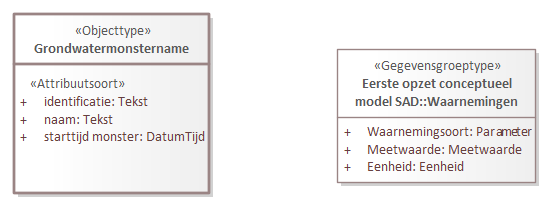
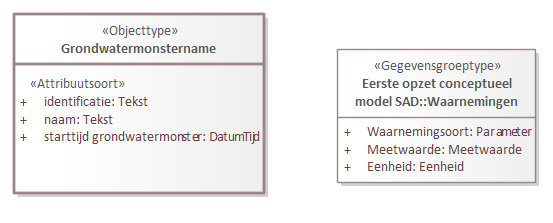
Conceptualmodel-MilieuhygienischbodemonderzoekSAD-0.2-1-20230126-20230412-171537

Changed region(s): [[0.0615, 0.0538, 0.4919, 0.8879]]

diff --git a/data/SAD-cat.msword.html b/data/SAD-cat.msword.html
@@ -15,7 +15,7 @@
    <body>
       <p>Conceptual model/Milieuhygienisch bodemonderzoek SAD/20230126</p>
       <p>Imvertor: 2.0.0</p>
-      <p>Model release: Conceptualmodel-MilieuhygienischbodemonderzoekSAD-0.2-1-20230126-20230412-170643</p>
+      <p>Model release: Conceptualmodel-MilieuhygienischbodemonderzoekSAD-0.2-1-20230126-20230412-171537</p>
       <hr>
       <section>
          <h1>Artikel 1 Definitie van registratieobject, entiteiten en attributen</h1>
@@ -65,7 +65,7 @@
          <section>
             <h2>Het domeinmodel</h2>
             <section id="">
-               <div class="imageinfo overview"><img src="Images/EAID_FABA90F8_223C_433d_BAE3_74F87B3DC220.png" usemap="#imagemap-EAID_FABA90F8_223C_433d_BAE3_74F87B3DC220" alt="Diagram &#xA;                        &#xA;                     "><map name="imagemap-EAID_FABA90F8_223C_433d_BAE3_74F87B3DC220"><area shape="rect" alt="Boorprofiel" coords="685,1317,995,1437" href="#graph_EAID_6CF3D55E_1BD5_4108_BEA5_8B69EB2D2097"><area shape="rect" alt="Boorbeschrijving" coords="701,1101,977,1210" href="#graph_EAID_080E44E6_527C_42db_BCF3_7400257377C2"><area shape="rect" alt="Veldmeting" coords="1752,1239,1960,1378" href="#graph_EAID_C348E314_A61B_43a0_AFED_083DA812EC5F"><area shape="rect" alt="Veldwaarneming" coords="1752,1032,2005,1176" href="#graph_EAID_A3A8A9F5_B12D_47e9_9D67_F12687999F0D"><area shape="rect" alt="Mengmonsteranalyse" coords="10,811,166,932" href="#graph_EAID_E7A3C99D_3348_4875_9BD5_4E0481E72C54"><area shape="rect" alt="Grondwatermonstername" coords="1320,1101,1517,1239" href="#graph_EAID_24B6DB20_4EA3_453f_B195_E642F22CC27C"><area shape="rect" alt="Grondmonstername" coords="291,775,549,967" href="#graph_EAID_8A8D6A0E_DAF9_415a_9AE7_09155A2C5869"><area shape="rect" alt="Peilbuis" coords="1217,774,1620,972" href="#graph_EAID_0075B243_E663_4ee7_9154_9D5DE12CCB21"><area shape="rect" alt="Bodemlaag" coords="692,1543,987,1777" href="#graph_EAID_88CF9E45_3E0E_40da_96C1_2CDD80B69F6F"><area shape="rect" alt="Boring" coords="637,746,1040,998" href="#graph_EAID_40FFF5B9_99C5_4c21_9D72_A3D1DD3C857F"><area shape="rect" alt="Registratieobject" coords="681,7,989,181" href="#graph_EAID_67DBE718_38E0_4ead_8649_72EA0B4A2355"><area shape="rect" alt="Bodemonderzoek" coords="650,261,1021,600" href="#graph_EAID_ABAADB49_C747_4775_A739_CC832CAD59F1"></map><p><b>Domeinmodel milieuhygienisch bodemonderzoek</b></p>
+               <div class="imageinfo overview"><img src="Images/EAID_FABA90F8_223C_433d_BAE3_74F87B3DC220.png" usemap="#imagemap-EAID_FABA90F8_223C_433d_BAE3_74F87B3DC220" alt="Diagram &#xA;                        &#xA;                     "><map name="imagemap-EAID_FABA90F8_223C_433d_BAE3_74F87B3DC220"><area shape="rect" alt="Boorprofiel" coords="685,1317,995,1437" href="#graph_EAID_6CF3D55E_1BD5_4108_BEA5_8B69EB2D2097"><area shape="rect" alt="Boorbeschrijving" coords="701,1101,977,1210" href="#graph_EAID_080E44E6_527C_42db_BCF3_7400257377C2"><area shape="rect" alt="Veldmeting" coords="1752,1239,1960,1378" href="#graph_EAID_C348E314_A61B_43a0_AFED_083DA812EC5F"><area shape="rect" alt="Veldwaarneming" coords="1752,1032,2005,1176" href="#graph_EAID_A3A8A9F5_B12D_47e9_9D67_F12687999F0D"><area shape="rect" alt="Mengmonsteranalyse" coords="10,811,166,932" href="#graph_EAID_E7A3C99D_3348_4875_9BD5_4E0481E72C54"><area shape="rect" alt="Grondwatermonstername" coords="1292,1103,1543,1240" href="#graph_EAID_24B6DB20_4EA3_453f_B195_E642F22CC27C"><area shape="rect" alt="Grondmonstername" coords="291,775,549,967" href="#graph_EAID_8A8D6A0E_DAF9_415a_9AE7_09155A2C5869"><area shape="rect" alt="Peilbuis" coords="1217,774,1620,972" href="#graph_EAID_0075B243_E663_4ee7_9154_9D5DE12CCB21"><area shape="rect" alt="Bodemlaag" coords="692,1543,987,1777" href="#graph_EAID_88CF9E45_3E0E_40da_96C1_2CDD80B69F6F"><area shape="rect" alt="Boring" coords="637,746,1040,998" href="#graph_EAID_40FFF5B9_99C5_4c21_9D72_A3D1DD3C857F"><area shape="rect" alt="Registratieobject" coords="681,7,989,181" href="#graph_EAID_67DBE718_38E0_4ead_8649_72EA0B4A2355"><area shape="rect" alt="Bodemonderzoek" coords="650,261,1021,600" href="#graph_EAID_ABAADB49_C747_4775_A739_CC832CAD59F1"></map><p><b>Domeinmodel milieuhygienisch bodemonderzoek</b></p>
                </div>
             </section>
          </section>
@@ -4012,7 +4012,7 @@
                   </section>
                </section><a class="anchor" id="graph_EAID_24B6DB20_4EA3_453f_B195_E642F22CC27C"></a><a class="anchor" id="global_class_Model_Grondwatermonstername"></a><section id="global_class_Model_Grondwatermonstername">
                   <h3>   Grondwatermonstername</h3>
-                  <div class="imageinfo "><img src="Images/EAID_789452DC_4BCE_4b65_8B62_328A8173128A.png" usemap="#imagemap-EAID_789452DC_4BCE_4b65_8B62_328A8173128A" alt="Diagram "><map name="imagemap-EAID_789452DC_4BCE_4b65_8B62_328A8173128A"><area shape="rect" alt="Grondwatermonstername" coords="14,14,210,194" href="#graph_EAID_24B6DB20_4EA3_453f_B195_E642F22CC27C"></map><p><b></b></p>
+                  <div class="imageinfo "><img src="Images/EAID_789452DC_4BCE_4b65_8B62_328A8173128A.png" usemap="#imagemap-EAID_789452DC_4BCE_4b65_8B62_328A8173128A" alt="Diagram "><map name="imagemap-EAID_789452DC_4BCE_4b65_8B62_328A8173128A"><area shape="rect" alt="Grondwatermonstername" coords="14,14,265,194" href="#graph_EAID_24B6DB20_4EA3_453f_B195_E642F22CC27C"></map><p><b></b></p>
                   </div>
                   <table style="width: 100%;">
                      <colgroup style="width: 30%;"></colgroup>
@@ -4112,8 +4112,8 @@
                            </tr>
                         </tbody>
                      </table>
-                     </section><a class="anchor" id="detail_attribute_Model_Grondwatermonstername_starttijdmonster"></a><section id="detail_attribute_Model_Grondwatermonstername_starttijdmonster">
-                     <h4>  starttijd monster</h4>
+                     </section><a class="anchor" id="detail_attribute_Model_Grondwatermonstername_starttijdgrondwatermonster"></a><section id="detail_attribute_Model_Grondwatermonstername_starttijdgrondwatermonster">
+                     <h4>  starttijd grondwatermonster</h4>
                      
                      <table style="width: 100%;">
                         <colgroup style="width: 30%;"></colgroup>

diff --git a/data/SAD-cat.respec.html b/data/SAD-cat.respec.html
@@ -43,7 +43,7 @@
       </section>
    <section id="">
       <h2>Het domeinmodel   </h2>
-      <div class="imageinfo overview"><img src="data/Images/EAID_FABA90F8_223C_433d_BAE3_74F87B3DC220.png" usemap="#imagemap-EAID_FABA90F8_223C_433d_BAE3_74F87B3DC220" alt="Diagram &#xA;                        &#xA;                     "><map name="imagemap-EAID_FABA90F8_223C_433d_BAE3_74F87B3DC220"><area shape="rect" alt="Boorprofiel" coords="685,1317,995,1437" href="#graph_EAID_6CF3D55E_1BD5_4108_BEA5_8B69EB2D2097"><area shape="rect" alt="Boorbeschrijving" coords="701,1101,977,1210" href="#graph_EAID_080E44E6_527C_42db_BCF3_7400257377C2"><area shape="rect" alt="Veldmeting" coords="1752,1239,1960,1378" href="#graph_EAID_C348E314_A61B_43a0_AFED_083DA812EC5F"><area shape="rect" alt="Veldwaarneming" coords="1752,1032,2005,1176" href="#graph_EAID_A3A8A9F5_B12D_47e9_9D67_F12687999F0D"><area shape="rect" alt="Mengmonsteranalyse" coords="10,811,166,932" href="#graph_EAID_E7A3C99D_3348_4875_9BD5_4E0481E72C54"><area shape="rect" alt="Grondwatermonstername" coords="1320,1101,1517,1239" href="#graph_EAID_24B6DB20_4EA3_453f_B195_E642F22CC27C"><area shape="rect" alt="Grondmonstername" coords="291,775,549,967" href="#graph_EAID_8A8D6A0E_DAF9_415a_9AE7_09155A2C5869"><area shape="rect" alt="Peilbuis" coords="1217,774,1620,972" href="#graph_EAID_0075B243_E663_4ee7_9154_9D5DE12CCB21"><area shape="rect" alt="Bodemlaag" coords="692,1543,987,1777" href="#graph_EAID_88CF9E45_3E0E_40da_96C1_2CDD80B69F6F"><area shape="rect" alt="Boring" coords="637,746,1040,998" href="#graph_EAID_40FFF5B9_99C5_4c21_9D72_A3D1DD3C857F"><area shape="rect" alt="Registratieobject" coords="681,7,989,181" href="#graph_EAID_67DBE718_38E0_4ead_8649_72EA0B4A2355"><area shape="rect" alt="Bodemonderzoek" coords="650,261,1021,600" href="#graph_EAID_ABAADB49_C747_4775_A739_CC832CAD59F1"></map><p><b>Domeinmodel milieuhygienisch bodemonderzoek</b></p>
+      <div class="imageinfo overview"><img src="data/Images/EAID_FABA90F8_223C_433d_BAE3_74F87B3DC220.png" usemap="#imagemap-EAID_FABA90F8_223C_433d_BAE3_74F87B3DC220" alt="Diagram &#xA;                        &#xA;                     "><map name="imagemap-EAID_FABA90F8_223C_433d_BAE3_74F87B3DC220"><area shape="rect" alt="Boorprofiel" coords="685,1317,995,1437" href="#graph_EAID_6CF3D55E_1BD5_4108_BEA5_8B69EB2D2097"><area shape="rect" alt="Boorbeschrijving" coords="701,1101,977,1210" href="#graph_EAID_080E44E6_527C_42db_BCF3_7400257377C2"><area shape="rect" alt="Veldmeting" coords="1752,1239,1960,1378" href="#graph_EAID_C348E314_A61B_43a0_AFED_083DA812EC5F"><area shape="rect" alt="Veldwaarneming" coords="1752,1032,2005,1176" href="#graph_EAID_A3A8A9F5_B12D_47e9_9D67_F12687999F0D"><area shape="rect" alt="Mengmonsteranalyse" coords="10,811,166,932" href="#graph_EAID_E7A3C99D_3348_4875_9BD5_4E0481E72C54"><area shape="rect" alt="Grondwatermonstername" coords="1292,1103,1543,1240" href="#graph_EAID_24B6DB20_4EA3_453f_B195_E642F22CC27C"><area shape="rect" alt="Grondmonstername" coords="291,775,549,967" href="#graph_EAID_8A8D6A0E_DAF9_415a_9AE7_09155A2C5869"><area shape="rect" alt="Peilbuis" coords="1217,774,1620,972" href="#graph_EAID_0075B243_E663_4ee7_9154_9D5DE12CCB21"><area shape="rect" alt="Bodemlaag" coords="692,1543,987,1777" href="#graph_EAID_88CF9E45_3E0E_40da_96C1_2CDD80B69F6F"><area shape="rect" alt="Boring" coords="637,746,1040,998" href="#graph_EAID_40FFF5B9_99C5_4c21_9D72_A3D1DD3C857F"><area shape="rect" alt="Registratieobject" coords="681,7,989,181" href="#graph_EAID_67DBE718_38E0_4ead_8649_72EA0B4A2355"><area shape="rect" alt="Bodemonderzoek" coords="650,261,1021,600" href="#graph_EAID_ABAADB49_C747_4775_A739_CC832CAD59F1"></map><p><b>Domeinmodel milieuhygienisch bodemonderzoek</b></p>
       </div>
    </section>
    <section id="">
@@ -3988,7 +3988,7 @@
          </section>
       </section><a class="anchor" id="graph_EAID_24B6DB20_4EA3_453f_B195_E642F22CC27C"></a><a class="anchor" id="global_class_Model_Grondwatermonstername"></a><section id="global_class_Model_Grondwatermonstername">
          <h3>   Grondwatermonstername</h3>
-         <div class="imageinfo "><img src="data/Images/EAID_789452DC_4BCE_4b65_8B62_328A8173128A.png" usemap="#imagemap-EAID_789452DC_4BCE_4b65_8B62_328A8173128A" alt="Diagram "><map name="imagemap-EAID_789452DC_4BCE_4b65_8B62_328A8173128A"><area shape="rect" alt="Grondwatermonstername" coords="14,14,210,194" href="#graph_EAID_24B6DB20_4EA3_453f_B195_E642F22CC27C"></map><p><b></b></p>
+         <div class="imageinfo "><img src="data/Images/EAID_789452DC_4BCE_4b65_8B62_328A8173128A.png" usemap="#imagemap-EAID_789452DC_4BCE_4b65_8B62_328A8173128A" alt="Diagram "><map name="imagemap-EAID_789452DC_4BCE_4b65_8B62_328A8173128A"><area shape="rect" alt="Grondwatermonstername" coords="14,14,265,194" href="#graph_EAID_24B6DB20_4EA3_453f_B195_E642F22CC27C"></map><p><b></b></p>
          </div>
          <table style="width: 100%;">
             <colgroup style="width: 30%;"></colgroup>
@@ -4088,8 +4088,8 @@
                   </tr>
                </tbody>
             </table>
-            </section><a class="anchor" id="detail_attribute_Model_Grondwatermonstername_starttijdmonster"></a><section id="detail_attribute_Model_Grondwatermonstername_starttijdmonster">
-            <h4>  starttijd monster</h4>
+            </section><a class="anchor" id="detail_attribute_Model_Grondwatermonstername_starttijdgrondwatermonster"></a><section id="detail_attribute_Model_Grondwatermonstername_starttijdgrondwatermonster">
+            <h4>  starttijd grondwatermonster</h4>
             
             <table style="width: 100%;">
                <colgroup style="width: 30%;"></colgroup>
